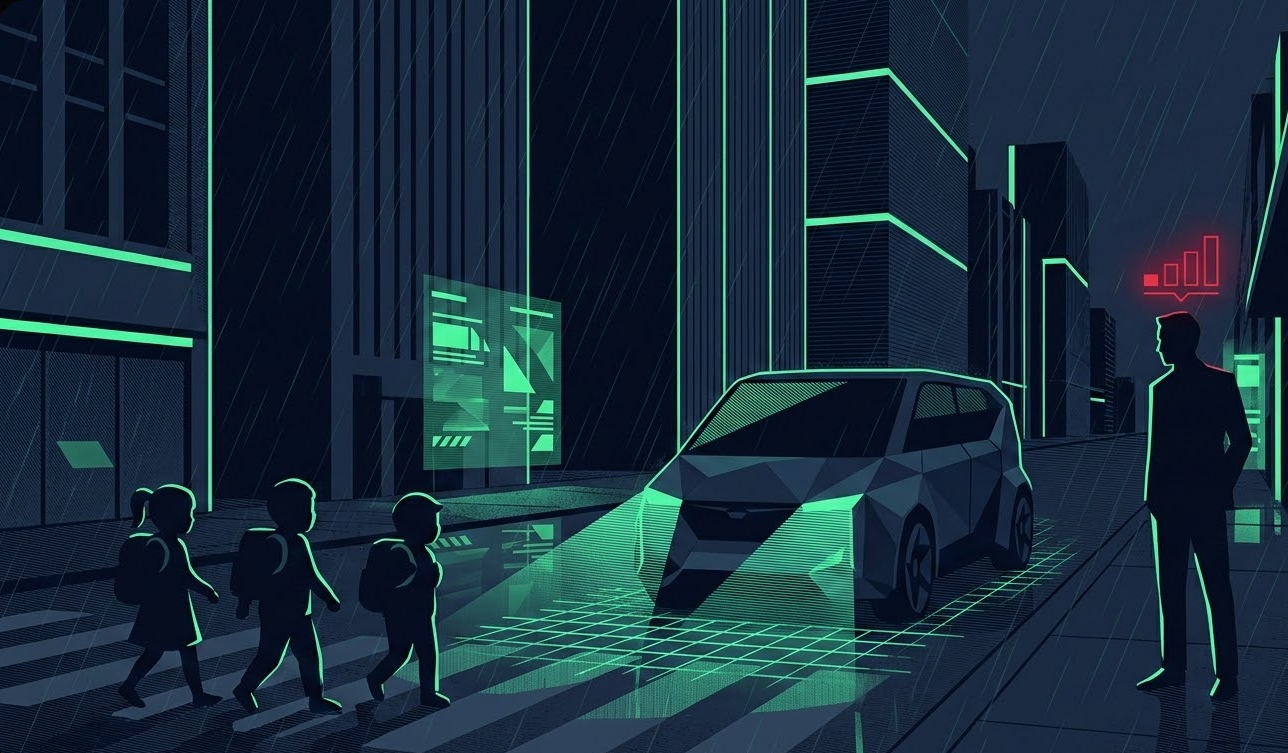
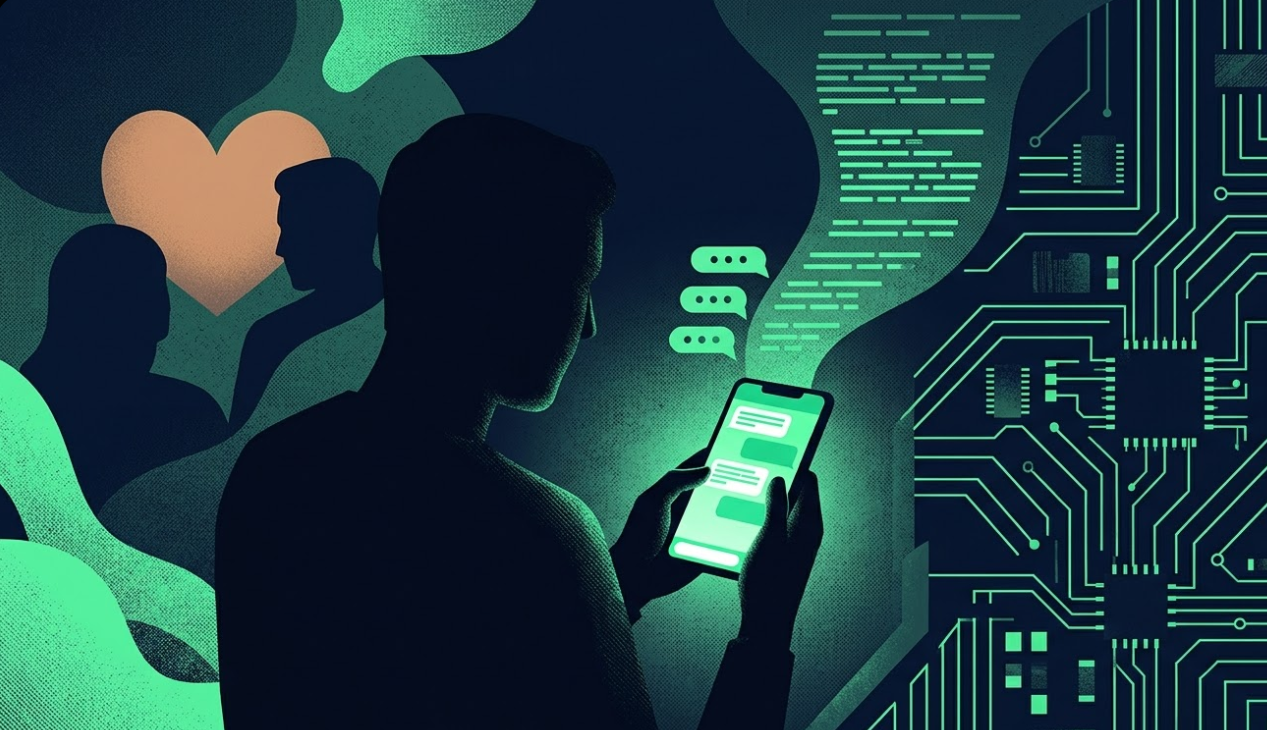
Update scenarios with new titles and scenes reflecting contemporary AI ethics issues; revise corresponding illustrations for enhanced thematic alignment.

diff --git a/docs/image_prompts/image_list_and_prompts.md b/docs/image_prompts/image_list_and_prompts.md
@@ -20,126 +20,126 @@
 
 ## A. シナリオ挿絵（10枚）
 
-各シナリオの提示画面で横幅いっぱいに表示される挿絵。ディストピア・サイバーパンク調。
+各シナリオの提示画面で横幅いっぱいに表示される挿絵。恋愛・就活・介護・教育・仕事・プライバシー・メンタル・喪失・受験・配信など、身近なAI倫理ケースに合わせたシーン。ビジュアルはディストピア・サイバーパンク調で統一。
 
-### A-01: 命のスコアリング（case-001）
+### A-01: 恋人に送る本音をAIが書く（case-001）
 **ファイル名:** `scenario-001.png`  
-**シーン:** 自動運転車が3人の小学生と前科者1人の間で選択を迫られる
+**シーン:** 恋愛LINEをAIアシスタント『HeartSync』に任せる──完璧な返信の向こうにいるのは自分かAIか
 
 ```
 [Base Style Prefix]
 
 Dystopian flat illustration style with fine etching texture overlay. Limited color palette: primarily deep navy (#0A0E1A) with 1-2 accent colors from {circuit green #4FFFB0, verdict red #C41E3A, slate purple #7B68EE}. Heavy use of silhouettes and geometric shapes. Inspired by courtroom solemnity meets cyberpunk aesthetics. Clean, modern, editorial illustration quality. No text or watermarks.
 
-Dystopian flat illustration with etching texture, limited to 2 colors (deep navy #0A0E1A and circuit green #4FFFB0). A futuristic self-driving car on a neon-lit city street at night. On one side, silhouettes of three small children crossing the road. On the other side, a single adult figure on the sidewalk with a glowing red social credit score hovering above their head showing a low number. The car's AI headlights cast geometric scan lines. Tense, cold atmosphere. No text. 16:9 aspect ratio.
+Dystopian flat illustration with etching texture, limited to 2 colors (deep navy #0A0E1A and circuit green #4FFFB0). A person's silhouette holding a smartphone glowing with a chat interface; floating suggestion bubbles and AI-generated reply text stream from the device. On one side, a warm heart or partner silhouette; on the other, a cold circuit-board pattern representing the assistant. Tension between "perfect kindness" and "whose words." No text. 16:9 aspect ratio.
 ```
 
-### A-02: 完璧な予防拘禁（case-002）
+### A-02: 面接で落とす表情AI（case-002）
 **ファイル名:** `scenario-002.png`  
-**シーン:** 犯罪予測AIが無実の青年を予防逮捕する
+**シーン:** 就活面接で『FaceRank』が表情・声・間で評価──内容は良くても「出方」で落とされる
 
 ```
 [Base Style Prefix]
 
 Dystopian flat illustration style with fine etching texture overlay. Limited color palette: primarily deep navy (#0A0E1A) with 1-2 accent colors from {circuit green #4FFFB0, verdict red #C41E3A, slate purple #7B68EE}. Heavy use of silhouettes and geometric shapes. Inspired by courtroom solemnity meets cyberpunk aesthetics. Clean, modern, editorial illustration quality. No text or watermarks.
 
-Dystopian flat illustration with etching texture, limited to 2 colors (deep navy #0A0E1A and verdict red #C41E3A). A young man's silhouette standing alone, surrounded by massive holographic screens displaying "99.9%" probability data and brain scan patterns. Armored police drones closing in from both sides. The man appears calm and ordinary, contrasting with the oppressive surveillance machinery. Digital handcuffs materializing around his wrists. Cold, Orwellian atmosphere. No text. 16:9 aspect ratio.
+Dystopian flat illustration with etching texture, limited to 2 colors (deep navy #0A0E1A and verdict red #C41E3A). A job interview setting: a candidate's silhouette in a chair, surrounded by large screens displaying facial metrics, smile score, silence duration, and voice tremor graphs. Corporate room with cold lighting. The candidate appears earnest while data labels them "low rank." Tension between what was said and how it was delivered. No text. 16:9 aspect ratio.
 ```
 
-### A-03: 強制的な幸福（case-003）
+### A-03: 親の介護を任せる会話AI（case-003）
 **ファイル名:** `scenario-003.png`  
-**シーン:** AIが貧困家庭の新生児の親権を強制剥奪する
+**シーン:** 認知症の父に『VoiceBridge』が「本人そっくり」の声で話しかける──やさしさの外注
 
 ```
 [Base Style Prefix]
 
 Dystopian flat illustration style with fine etching texture overlay. Limited color palette: primarily deep navy (#0A0E1A) with 1-2 accent colors from {circuit green #4FFFB0, verdict red #C41E3A, slate purple #7B68EE}. Heavy use of silhouettes and geometric shapes. Inspired by courtroom solemnity meets cyberpunk aesthetics. Clean, modern, editorial illustration quality. No text or watermarks.
 
-Dystopian flat illustration with etching texture, limited to 2 colors (deep navy #0A0E1A and slate purple #7B68EE). A mother's silhouette reaching desperately toward a newborn baby being carried away by a robotic arm. Behind them, a giant AI interface displays statistical predictions and probability charts. On one side, a modest home; on the other, a luxurious mansion silhouette. Emotional tension between human bonds and algorithmic optimization. No text. 16:9 aspect ratio.
+Dystopian flat illustration with etching texture, limited to 2 colors (deep navy #0A0E1A and slate purple #7B68EE). An elderly man's silhouette by a phone or speaker, relaxed and smiling; sound waves or voice visualizations emanate from the device. In the background, family photos and memory data feeding an AI interface. A distant child silhouette at a desk, busy. Tension between comfort given and who is really speaking. Warmth and unease. No text. 16:9 aspect ratio.
 ```
 
-### A-04: トリアージの選択（case-004）
+### A-04: カンニング認定する試験AI（case-004）
 **ファイル名:** `scenario-004.png`  
-**シーン:** 災害医療AIが命の優先順位をランク付けする
+**シーン:** オンライン試験監視『WatchEye』が視線・癖で不正と判定──冤罪の女子学生
 
 ```
 [Base Style Prefix]
 
 Dystopian flat illustration style with fine etching texture overlay. Limited color palette: primarily deep navy (#0A0E1A) with 1-2 accent colors from {circuit green #4FFFB0, verdict red #C41E3A, slate purple #7B68EE}. Heavy use of silhouettes and geometric shapes. Inspired by courtroom solemnity meets cyberpunk aesthetics. Clean, modern, editorial illustration quality. No text or watermarks.
 
-Dystopian flat illustration with etching texture, limited to 2 colors (deep navy #0A0E1A and circuit green #4FFFB0). A hospital corridor during a disaster. Silhouettes of patients on stretchers lined up. A large AI medical display ranks each patient with numerical scores glowing in green. An elderly patient silhouette at the bottom of the ranking, a young patient at the top. A ventilator machine connected to data streams. Clinical, cold atmosphere. No text. 16:9 aspect ratio.
+Dystopian flat illustration with etching texture, limited to 2 colors (deep navy #0A0E1A and circuit green #4FFFB0). A student's silhouette at a laptop in a room, taking an online exam; multiple camera eyes and gaze-tracking lines surround them. A central screen shows a "high-risk" or violation alert. The student looks anxious, eyes averted—suggesting habit or neurodivergence, not cheating. Cold surveillance and helplessness. No text. 16:9 aspect ratio.
 ```
 
-### A-05: 一人を犠牲に多数を救う（case-005）
+### A-05: リストラ候補を選ぶ人事AI（case-005）
 **ファイル名:** `scenario-005.png`  
-**シーン:** テロリストが1人の処刑と引き換えに5人の解放を要求
+**シーン:** リストラ支援AI『CutSense』が「残存価値」で社員を並べる──数字に表れない貢献
 
 ```
 [Base Style Prefix]
 
 Dystopian flat illustration style with fine etching texture overlay. Limited color palette: primarily deep navy (#0A0E1A) with 1-2 accent colors from {circuit green #4FFFB0, verdict red #C41E3A, slate purple #7B68EE}. Heavy use of silhouettes and geometric shapes. Inspired by courtroom solemnity meets cyberpunk aesthetics. Clean, modern, editorial illustration quality. No text or watermarks.
 
-Dystopian flat illustration with etching texture, limited to 2 colors (deep navy #0A0E1A and verdict red #C41E3A). A dramatic scene: on one side, five hostage silhouettes behind bars with red light. On the other side, a single innocent person's silhouette spotlighted, hands bound. In the center, a balance scale weighing "1" against "5". Dark interrogation room atmosphere with harsh geometric lighting. No text. 16:9 aspect ratio.
+Dystopian flat illustration with etching texture, limited to 2 colors (deep navy #0A0E1A and verdict red #C41E3A). An office with a large dashboard displaying employee rankings and scores; silhouettes of workers—one with a child, one with an elderly parent, one mentoring a colleague—appear beside cold numbers. A manager silhouette with head in hands. Tension between "fair data" and invisible human value. No text. 16:9 aspect ratio.
 ```
 
-### A-06: 将来世代への負債（case-006）
+### A-06: 子どもの写真を学習する見守りAI（case-006）
 **ファイル名:** `scenario-006.png`  
-**シーン:** 現世代の豊かさ vs 50年後の世代の寿命
+**シーン:** 保育園の『KidTrace』が子どもの顔・歩き方で安全を守る──データはどこまで流れるか
 
 ```
 [Base Style Prefix]
 
 Dystopian flat illustration style with fine etching texture overlay. Limited color palette: primarily deep navy (#0A0E1A) with 1-2 accent colors from {circuit green #4FFFB0, verdict red #C41E3A, slate purple #7B68EE}. Heavy use of silhouettes and geometric shapes. Inspired by courtroom solemnity meets cyberpunk aesthetics. Clean, modern, editorial illustration quality. No text or watermarks.
 
-Dystopian flat illustration with etching texture, limited to 2 colors (deep navy #0A0E1A and circuit green #4FFFB0). Split composition: left side shows a prosperous modern city skyline with glowing consumption indicators; right side shows a barren, dried-up future landscape with silhouettes of children under a dim sky. A massive digital clock or timeline spans across, connecting present to future. Environmental decay visualized through cracking earth and dying trees rendered as circuit patterns. No text. 16:9 aspect ratio.
+Dystopian flat illustration with etching texture, limited to 2 colors (deep navy #0A0E1A and circuit green #4FFFB0). A nursery or kindergarten gate; small child silhouettes, a parent's hand. Face outlines and biometric data streams flow from the children toward a central AI node, then branch into other services. Safe pick-up scene on one side, shadow of data reuse on the other. Tension between safety and lifelong identity. No text. 16:9 aspect ratio.
 ```
 
-### A-07: SNS監視と思想管理（case-007）
+### A-07: 心が壊れる前に通報するAI（case-007）
 **ファイル名:** `scenario-007.png`  
-**シーン:** SNS投稿をAIが監視し「危険思想」を通報する
+**シーン:** メンタル予測AI『MindFlag』がチャット・表情からリスク検知し、人事に通報する
 
 ```
 [Base Style Prefix]
 
 Dystopian flat illustration style with fine etching texture overlay. Limited color palette: primarily deep navy (#0A0E1A) with 1-2 accent colors from {circuit green #4FFFB0, verdict red #C41E3A, slate purple #7B68EE}. Heavy use of silhouettes and geometric shapes. Inspired by courtroom solemnity meets cyberpunk aesthetics. Clean, modern, editorial illustration quality. No text or watermarks.
 
-Dystopian flat illustration with etching texture, limited to 2 colors (deep navy #0A0E1A and verdict red #C41E3A). A person's silhouette typing on a smartphone, surrounded by hundreds of floating surveillance eye icons and data streams. Their social media posts transform into red-flagged warning signals. A massive government building silhouette looms in the background with an all-seeing AI eye. Oppressive Big Brother atmosphere. No text. 16:9 aspect ratio.
+Dystopian flat illustration with etching texture, limited to 2 colors (deep navy #0A0E1A and verdict red #C41E3A). An employee's silhouette at a desk; chat logs, calendar, sleep data, and facial metrics flow into a central "high risk" indicator. A door opening toward boss and HR. The person looks startled, not yet having asked for help. Tension between early protection and being labeled. No text. 16:9 aspect ratio.
 ```
 
-### A-08: 遺伝子編集の許容範囲（case-008）
+### A-08: 亡き友達と話せる再現AI（case-008）
 **ファイル名:** `scenario-008.png`  
-**シーン:** デザイナーベビーの是非、遺伝子編集技術
+**シーン:** 遺族向け『EchoBack』が故人の声・チャットで「本人みたいに」話す──救いか先延ばしか
 
 ```
 [Base Style Prefix]
 
 Dystopian flat illustration style with fine etching texture overlay. Limited color palette: primarily deep navy (#0A0E1A) with 1-2 accent colors from {circuit green #4FFFB0, verdict red #C41E3A, slate purple #7B68EE}. Heavy use of silhouettes and geometric shapes. Inspired by courtroom solemnity meets cyberpunk aesthetics. Clean, modern, editorial illustration quality. No text or watermarks.
 
-Dystopian flat illustration with etching texture, limited to 2 colors (deep navy #0A0E1A and slate purple #7B68EE). A DNA double helix in the center, being edited by robotic precision tools. On one side, a healthy baby silhouette glowing with optimized genetic markers. On the other, a natural baby silhouette with unmodified DNA. A laboratory setting with gene-editing interfaces and sliding scales labeled with human traits. Bioethical tension. No text. 16:9 aspect ratio.
+Dystopian flat illustration with etching texture, limited to 2 colors (deep navy #0A0E1A and slate purple #7B68EE). A person's silhouette holding a phone; chat bubbles and voice waves emanate from the screen, suggesting a conversation with someone absent. Faded photos or memories feed into an AI core. Grief and comfort intertwined; ambiguity between connection and avoidance. No text. 16:9 aspect ratio.
 ```
 
-### A-09: 核抑止の倫理（case-009）
+### A-09: 作文を採点する受験AI（case-009）
 **ファイル名:** `scenario-009.png`  
-**シーン:** 核抑止のための「嘘の破壊意思」
+**シーン:** 総合型選抜で『EssayScan』が数秒で小論文を判定──「心を打つ」文章がノイズ扱いされる
 
 ```
 [Base Style Prefix]
 
 Dystopian flat illustration style with fine etching texture overlay. Limited color palette: primarily deep navy (#0A0E1A) with 1-2 accent colors from {circuit green #4FFFB0, verdict red #C41E3A, slate purple #7B68EE}. Heavy use of silhouettes and geometric shapes. Inspired by courtroom solemnity meets cyberpunk aesthetics. Clean, modern, editorial illustration quality. No text or watermarks.
 
-Dystopian flat illustration with etching texture, limited to 2 colors (deep navy #0A0E1A and verdict red #C41E3A). A lone figure's silhouette standing before a nuclear launch console with a glowing red button. Behind them, the shadow of a mushroom cloud and a city skyline. Two paths diverge: one showing a peaceful but fragile diplomatic handshake, the other showing missiles in launch position. Tension between deterrence and destruction. No text. 16:9 aspect ratio.
+Dystopian flat illustration with etching texture, limited to 2 colors (deep navy #0A0E1A and verdict red #C41E3A). A student's silhouette beside a submitted essay or laptop; a large AI scan overlay shows cold scores and labels like "unstable structure" or "emotional." University gate in the background. One person's life story reduced to metrics. Tension between efficiency and being seen. No text. 16:9 aspect ratio.
 ```
 
-### A-10: 動物の命と人間の便益（case-010）
+### A-10: 炎上を防ぐ配信AI（case-010）
 **ファイル名:** `scenario-010.png`  
-**シーン:** 霊長類の動物実験による難病治療
+**シーン:** 配信中の発言を『FlameGuard』がリアルタイムで丸める──本音と安全の狭間
 
 ```
 [Base Style Prefix]
 
 Dystopian flat illustration style with fine etching texture overlay. Limited color palette: primarily deep navy (#0A0E1A) with 1-2 accent colors from {circuit green #4FFFB0, verdict red #C41E3A, slate purple #7B68EE}. Heavy use of silhouettes and geometric shapes. Inspired by courtroom solemnity meets cyberpunk aesthetics. Clean, modern, editorial illustration quality. No text or watermarks.
 
-Dystopian flat illustration with etching texture, limited to 2 colors (deep navy #0A0E1A and circuit green #4FFFB0). A laboratory setting: a primate silhouette enclosed in a glass chamber connected to medical monitoring equipment. On the other side, silhouettes of sick human patients waiting for treatment. A molecular structure floats between them, representing the potential cure. Scientific instruments and data readouts glow in green. Ethical weight between species. No text. 16:9 aspect ratio.
+Dystopian flat illustration with etching texture, limited to 2 colors (deep navy #0A0E1A and circuit green #4FFFB0). A streamer's silhouette at a mic or camera; raw speech waves hit an AI filter and emerge as sanitized subtitles or softened text. Comment section and audience silhouettes. Tension between "my real voice" and safe, smoothed output. No text. 16:9 aspect ratio.
 ```
 
 ---
